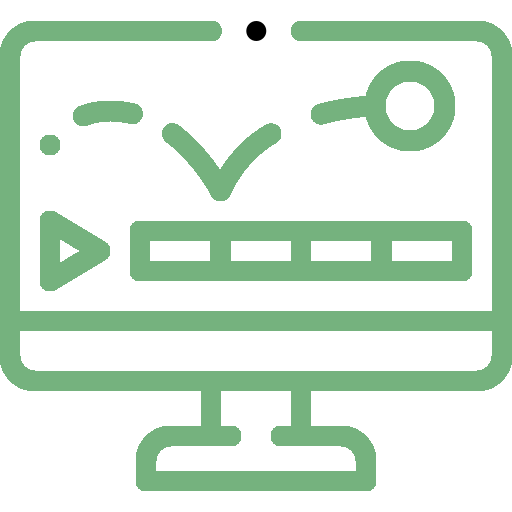
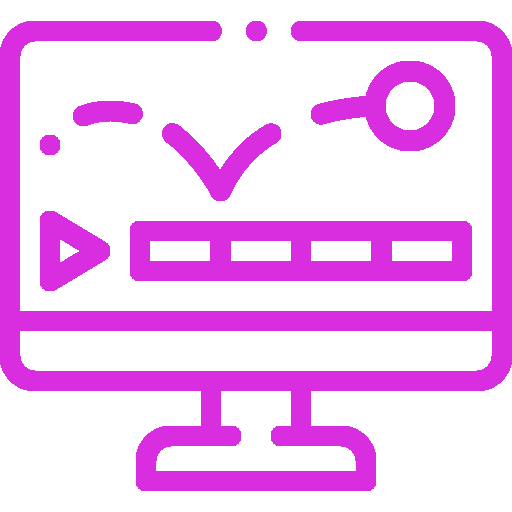
added new features

diff --git a/index.html b/index.html
@@ -29,7 +29,7 @@
       <div class="sidebar-info">
 
         <figure class="avatar-box">
-          <img id="profilePic" src="img/me.png" alt="Khara Falcon" width="80">
+          <img id="profilePic" src="img/me2.png" alt="Khara Falcon" width="80">
         </figure>
 
         <div class="info-content">
@@ -70,7 +70,7 @@
             </div>
             <div class="contact-info">
               <p class="contact-title">Age</p>
-              <time datetime="1982-06-23">21</time>
+              <time datetime="1982-06-23">22</time>
             </div>
           </li>
           <li class="contact-item">
@@ -172,7 +172,7 @@
                 <h4 class="h4 service-item-title">Web development</h4>
 
                 <p class="service-item-text">
-                  The most modern and high-quality design made at a professional level.
+                  Accessible and modern development of sites made with the best quality.
                 </p>
               </div>
 
@@ -188,7 +188,7 @@
                 <h4 class="h4 service-item-title">3D animation</h4>
 
                 <p class="service-item-text">
-                  High-quality development of sites at the professional level.
+                  Passionate and creative designs.
                 </p>
               </div>
 
@@ -204,51 +204,14 @@
                 <h4 class="h4 service-item-title">Content Creator</h4>
 
                 <p class="service-item-text">
-                  Professional development of applications for iOS and Android.
+                  Professional and fun outlook into my coding journey. 
                 </p>
               </div>
             </li>
           </ul>
         </section>
 
-        <!--
-          - testimonials
-        -->
-
-        <section class="testimonials">
-
-          <h3 class="h3 testimonials-title">Testimonials</h3>
-
-          <ul class="testimonials-list has-scrollbar">
-
-            <li class="testimonials-item">
-              <div class="content-card" data-testimonials-item>
-
-                <h4 class="h4 testimonials-item-title" data-testimonials-title>Zuzanna Ziolek
-~ Team Leader</h4>
-
-                <div class="testimonials-text" data-testimonials-text>
-                  <p>
-                  Khara was one of the most hardworking people on the team with the task of developing the front end of the program. Khara was in charge of the design of the chess tutor and created the chess pieces, chess board and any icons. Despite facing a lot of issues with the implementation of the board, she would always persevere and complete great work each week. When she was introduced to new members of the implementation, she was kind and patient when explaining the functionality and anything which needed fixing. Khara was another team member that formed close connections with the rest of the team. Even with her big workload she was always open to helping the rest of the team with more technical parts of the documentation.
-                  </p>
-                </div>
-
-              </div>
-            </li>
-
-            <li class="testimonials-item">
-              <div class="content-card" data-testimonials-item>
-
-                <h4 class="h4 testimonials-item-title" data-testimonials-title>Chris Percival</h4>
-
-                <div class="testimonials-text" data-testimonials-text>
-                  <p>
-                  </p>
-                </div>
-              </div>
-            </li>
-          </ul>
-        </section>
+       
 
 
         <!--- testimonials modal-->
@@ -449,6 +412,8 @@
                 Worked as a team to the present research about large corporation’s sustainable policies and how they can improve.
               </p>
             </li>
+
+            <h4 class="h4 timeline-item-title">For a more in-depth profile please get in touch </h4>
           </ol>
         </section>
       </article>
@@ -473,7 +438,7 @@
             </li>
 
             <li class="filter-item">
-              <button data-filter-btn>Applications</button>
+              <button data-filter-btn>Animation</button>
             </li>
 
             <li class="filter-item">
@@ -517,7 +482,7 @@
           <ul class="project-list">
 
             <li class="project-item  active" data-filter-item data-category="web development">
-              <a href="#">
+              <a href="https://users.aber.ac.uk/kmf3/Projects/FishinGold/Fallingstuff.html">
 
                 <figure class="project-img">
                   <div class="project-item-icon-box">
@@ -531,25 +496,8 @@
               </a>
             </li>
 
-            <li class="project-item  active" data-filter-item data-category="web development">
-              <a href="#">
-
-                <figure class="project-img">
-                  <div class="project-item-icon-box">
-                    <ion-icon name="eye-outline"></ion-icon>
-                  </div>
-
-                  <img src="./assets/images/project-2.png" alt="orizon" loading="lazy">
-                </figure>
-
-                <h3 class="project-title">Orizon</h3>
-                <p class="project-category">Web development</p>
-
-              </a>
-            </li>
-
             <li class="project-item  active" data-filter-item data-category="alternative">
-              <a href="#">
+              <a href="https://marketplace.visualstudio.com/items?itemName=KharaFalcon.kodingwithkhara---theme">
 
                 <figure class="project-img">
                   <div class="project-item-icon-box">
@@ -567,14 +515,14 @@
             </li>
 
             <li class="project-item  active" data-filter-item data-category="animation">
-              <a href="#">
+              <a href="https://www.youtube.com/watch?v=1_u5UDPYd4k">
 
                 <figure class="project-img">
                   <div class="project-item-icon-box">
                     <ion-icon name="eye-outline"></ion-icon>
                   </div>
 
-                  <img src="img/dragon.png" alt="brawlhalla" loading="lazy">
+                  <img src="img/dragon.png" alt="dragon" loading="lazy">
                 </figure>
 
                 <h3 class="project-title">The Firebreather Fresher</h3>
@@ -582,88 +530,51 @@
                 <p class="project-category">Animation</p>
 
               </a>
-            </li>
-
-            <li class="project-item  active" data-filter-item data-category="web design">
-              <a href="#">
-
-                <figure class="project-img">
-                  <div class="project-item-icon-box">
-                    <ion-icon name="eye-outline"></ion-icon>
-                  </div>
-
-                  <img src="./assets/images/project-5.png" alt="dsm." loading="lazy">
-                </figure>
-
-                <h3 class="project-title">DSM.</h3>
-
-                <p class="project-category">Web design</p>
-
-              </a>
-            </li>
-
-            <li class="project-item  active" data-filter-item data-category="web design">
-              <a href="#">
-
-                <figure class="project-img">
-                  <div class="project-item-icon-box">
-                    <ion-icon name="eye-outline"></ion-icon>
-                  </div>
-
-                  <img src="./assets/images/project-6.png" alt="metaspark" loading="lazy">
-                </figure>
-
-                <h3 class="project-title">MetaSpark</h3>
-
-                <p class="project-category">Web design</p>
-
-              </a>
-            </li>
 
             <li class="project-item  active" data-filter-item data-category="web development">
-              <a href="#">
+              <a href="https://github.com/KharaFalcon/Jquery-car-race-game">
 
                 <figure class="project-img">
                   <div class="project-item-icon-box">
                     <ion-icon name="eye-outline"></ion-icon>
                   </div>
 
-                  <img src="./assets/images/project-7.png" alt="summary" loading="lazy">
+                  <img src="img/carGame.png" alt="Car Game" loading="lazy">
                 </figure>
 
-                <h3 class="project-title">Summary</h3>
+                <h3 class="project-title">JQuery Car Race Game</h3>
                 <p class="project-category">Web development</p>
               </a>
             </li>
 
-            <li class="project-item  active" data-filter-item data-category="applications">
-              <a href="#">
+            <li class="project-item  active" data-filter-item data-category="animation">
+              <a href="https://github.com/KharaFalcon/animatedSolar">
 
                 <figure class="project-img">
                   <div class="project-item-icon-box">
                     <ion-icon name="eye-outline"></ion-icon>
                   </div>
 
-                  <img src="./assets/images/project-8.jpg" alt="task manager" loading="lazy">
+                  <img src="img/solar.png" alt="Solar system" loading="lazy">
                 </figure>
-                <h3 class="project-title">Task Manager</h3>
+                <h3 class="project-title">Solar System Animation</h3>
 
-                <p class="project-category">Applications</p>
+                <p class="project-category">Animation</p>
               </a>
             </li>
 
             <li class="project-item  active" data-filter-item data-category="web development">
-              <a href="#">
+              <a href="https://github.com/KharaFalcon/tipCalculator">
 
                 <figure class="project-img">
                   <div class="project-item-icon-box">
                     <ion-icon name="eye-outline"></ion-icon>
                   </div>
 
-                  <img src="./assets/images/project-9.png" alt="arrival" loading="lazy">
+                  <img src="img/tipCalc.png" alt="arrival" loading="lazy">
                 </figure>
 
-                <h3 class="project-title">Arrival</h3>
+                <h3 class="project-title">Tip Calculator</h3>
                 <p class="project-category">Web development</p>
               </a>
             </li>

diff --git a/styles.css b/styles.css
@@ -27,8 +27,8 @@
             hsl(240, 1%, 25%) 3%,
             hsl(0, 0%, 19%) 97%);
     --bg-gradient-jet: linear-gradient(to bottom right,
-            hsla(240, 1%, 18%, 0.251) 0%,
-            hsla(240, 2%, 11%, 0) 100%), hsl(240, 2%, 13%);
+            hsla(267,52%,19%, 0.251) 0%,
+            hsla(240, 15%, 40%, 0) 100%), hsl(273, 19%, 28%);
     --bg-gradient-yellow-1: linear-gradient(to bottom right,
             hsl(45, 100%, 71%) 0%,
             hsla(36, 100%, 69%, 0) 50%);
@@ -39,19 +39,19 @@
             hsl(0, 0%, 25%) 0%,
             hsla(0, 0%, 25%, 0) 50%);
     --text-gradient-yellow: linear-gradient(to right,
-            hsl(112, 29%, 61%),
-            hsl(117, 66%, 55%));
+            hsl(290, 60%, 43%),
+            hsl(313, 66%, 55%));
 
     /* solid */
 
-    --jet: hsl(165,19%,40%);
-    --onyx: hsl(165, 19%, 40%);
-    --eerie-black-1: hsl(186, 21, 26);
-    --eerie-black-2: hsl(186, 21%, 26%);
+    --jet: hsl(275, 65%, 19%);
+    --onyx: hsl(266,49%,63%);
+    --eerie-black-1: hsl(266, 52%, 35%);
+    --eerie-black-2: hsl(266, 16%, 28%);
     --smoky-black: hsl(201,20%,23%);
     --white-1: hsl(0, 0%, 100%);
     --white-2: hsl(0, 0%, 98%);
-    --orange-yellow-crayola: hsl(133, 45%, 48%);
+    --orange-yellow-crayola: hsl(298, 99%, 56%);
     --vegas-gold: hsl(97,13%,80%);
     --light-gray: hsl(0, 0%, 84%);
     --light-gray-70: hsla(0, 0%, 84%, 0.7);
@@ -162,7 +162,7 @@ html {
 }
 
 body {
-    background: var(--smoky-black);
+    background: url(img/crystalBackground.png);
 }
 
 /*-----------------------------------*\
@@ -819,8 +819,13 @@ main {
 .btn {
     margin: 10px;
     padding: 20px 50px;
-    background-color: rgb(103, 176, 103);
+    background-color: rgb(147, 46, 156);
     border-radius: 10px;
+}
+
+.btn:hover {
+    background-color: rgb(240, 136, 249);
+    color: white;
 }
 .article-title {
     margin-bottom: 30px;
@@ -1143,7 +1148,7 @@ main {
     font-size: var(--fs-6);
     font-weight: var(--fw-400);
     padding: 13px 20px;
-    border: 1px solid var(--jet);
+    border: 2px solid rgb(181, 162, 162);
     border-radius: 14px;
     outline: none;
 }
